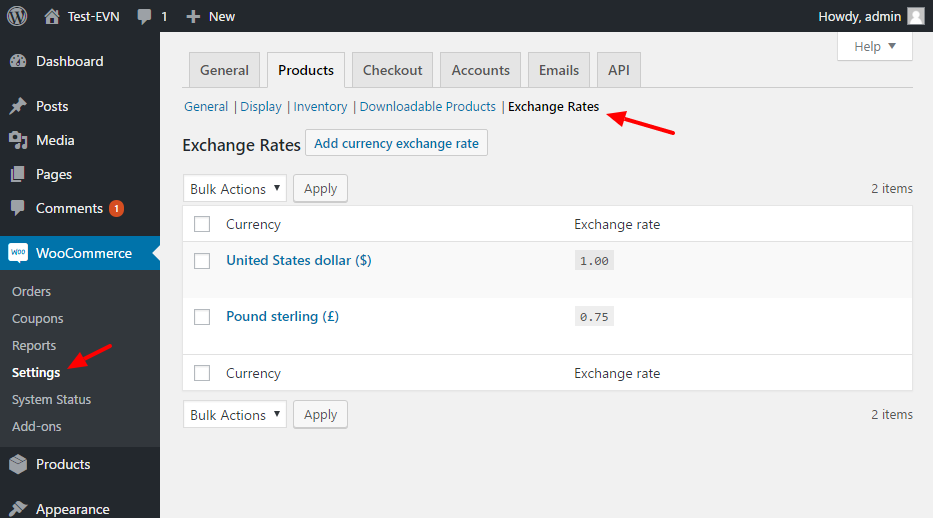
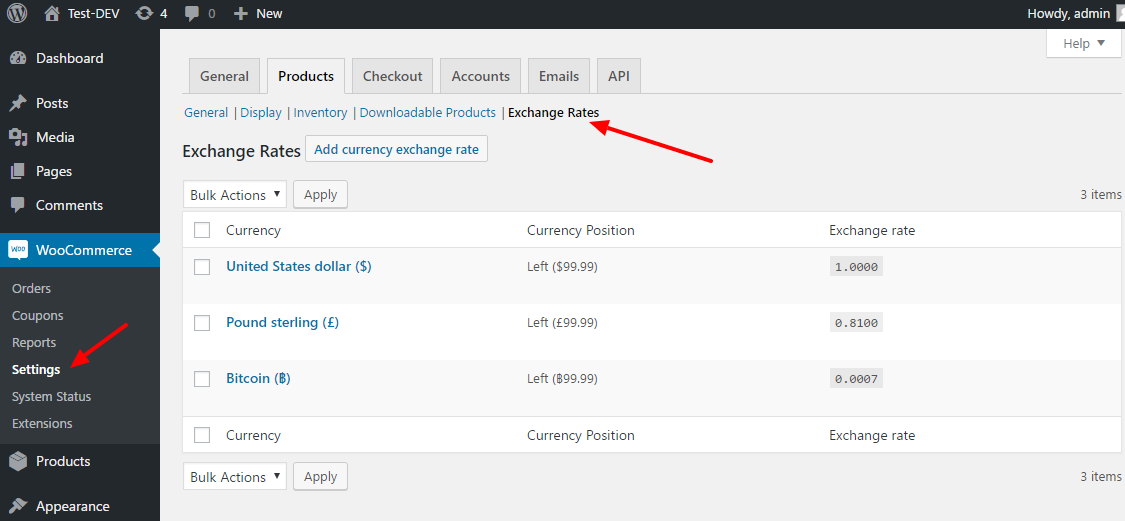
Increased number of decimals for exchange rates

diff --git a/functions.php b/functions.php
@@ -22,25 +22,18 @@ function wooer_startup_error() {
 function wooer_install() {
     global $wpdb;
     require_once(ABSPATH . '/wp-admin/includes/plugin.php');
-    $plugin_data = get_plugin_data(__DIR__ . '/woo-exchange-rate.php');
-
+    
     $table_name = Exchange_Rate_Model::get_instance()->get_table_name();
 
     $sql = "CREATE TABLE IF NOT EXISTS " . $table_name . " (
 	  `id` mediumint(9) AUTO_INCREMENT PRIMARY KEY,
 	  `currency_code` varchar(3) NOT NULL,
       `currency_pos` varchar(32) NOT NULL DEFAULT 'left',
-	  `currency_exchange_rate` decimal(6,2) NOT NULL
+	  `currency_exchange_rate` decimal(16,4) NOT NULL
 	);";
     $wpdb->query($sql);
     
-    if(!get_option('wooer_plugin_version')) {
-        add_option('wooer_plugin_version', $plugin_data['Version']);
-        $sql = "ALTER TABLE " . $table_name . " ADD COLUMN `currency_pos` varchar(32) NOT NULL DEFAULT 'left'";
-        $wpdb->query($sql);
-    } else {
-        update_option('wooer_plugin_version', $plugin_data['Version']);
-    }
+    wooer_dvc();
 }
 
 /**
@@ -54,4 +47,30 @@ function wooer_uninstall() {
     $wpdb->query($sql);
     
     delete_option('wooer_plugin_version');
+}
+
+/**
+ * Database Version Control
+ */
+function wooer_dvc() {
+    global $wpdb;
+    $table_name = Exchange_Rate_Model::get_instance()->get_table_name();
+    $plugin_data = get_plugin_data(__DIR__ . '/woo-exchange-rate.php');
+    $wooer_version = get_option('wooer_plugin_version');
+    
+    switch ($wooer_version) {
+        case '17.3':
+            // skip
+            break;
+        // < 17.3
+        default:
+            add_option('wooer_plugin_version', $plugin_data['Version']);
+            $sql = "ALTER TABLE " . $table_name . " ADD COLUMN `currency_pos` varchar(32) NOT NULL DEFAULT 'left'";
+            $wpdb->query($sql);
+            $sql = "ALTER TABLE " . $table_name . " MODIFY `currency_exchange_rate` decimal(16,4) NOT NULL";
+            $wpdb->query($sql);
+            break;
+    }
+
+    update_option('wooer_plugin_version', $plugin_data['Version']);
 }
